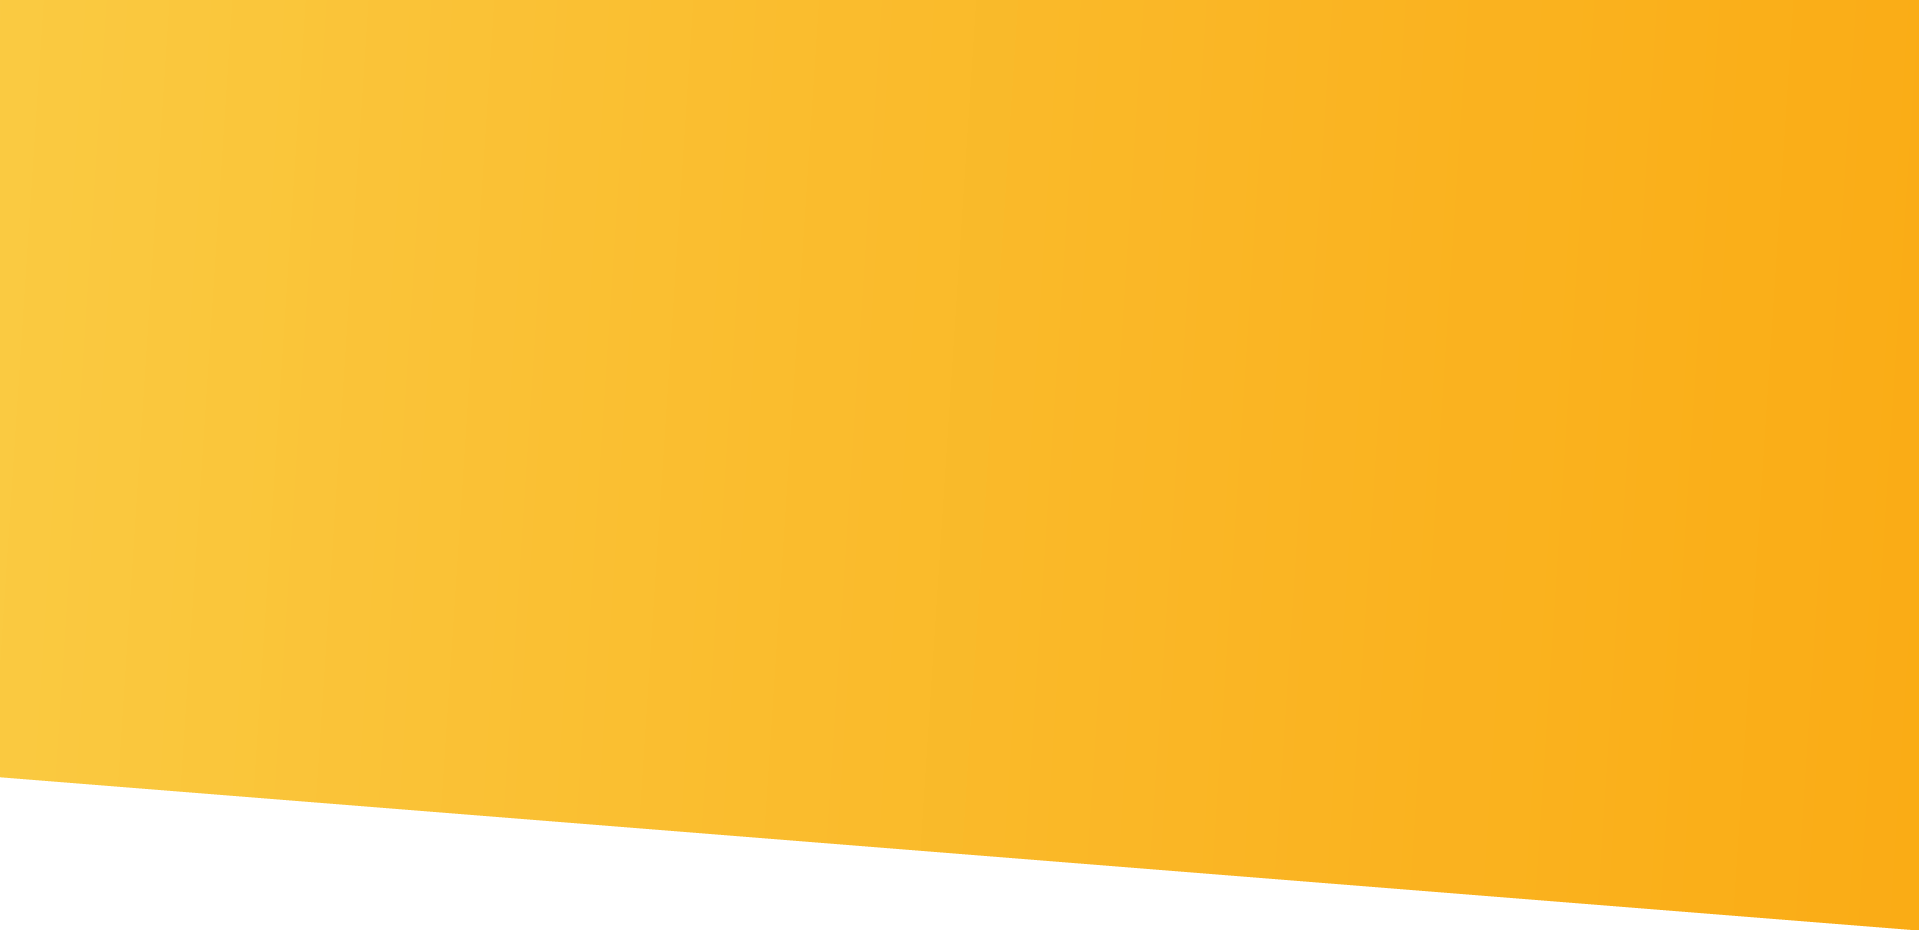
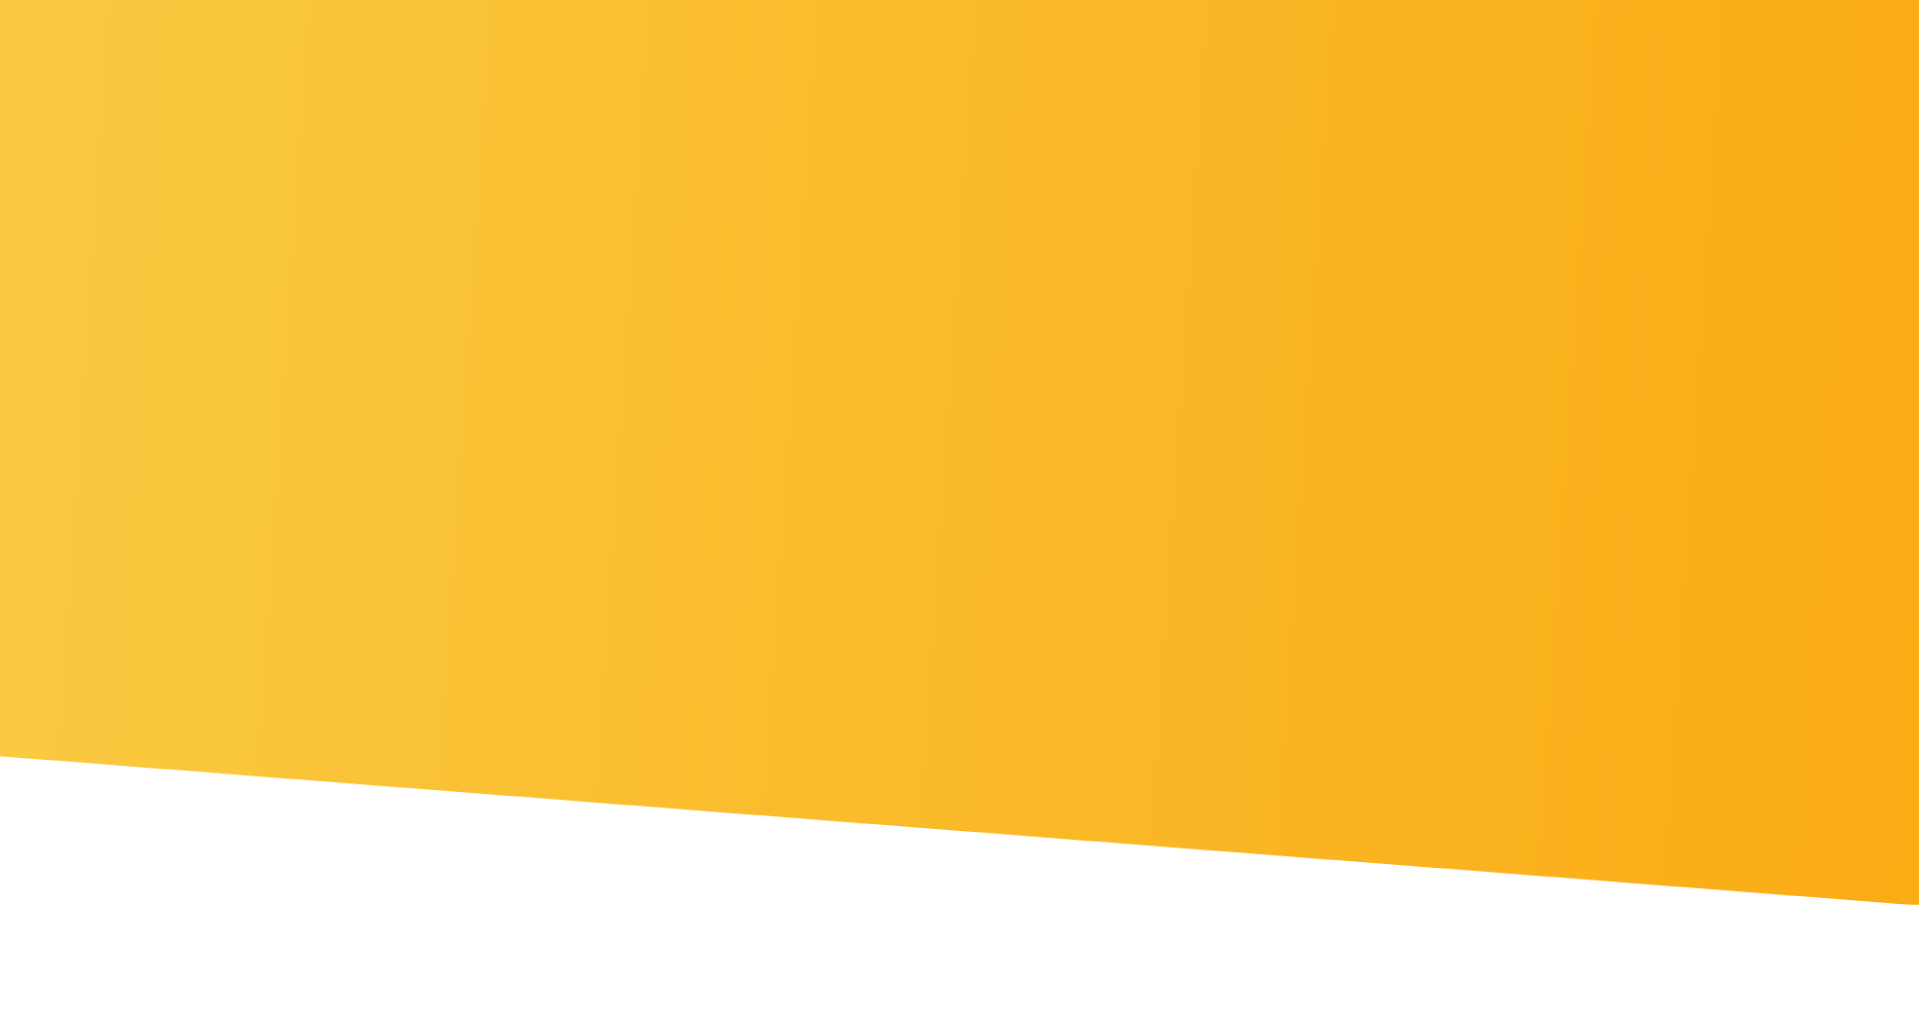
Update 7

Changed region(s): [[0.0, 0.7172, 1.0, 1.0]]

diff --git a/assets/css/style.css b/assets/css/style.css
@@ -325,11 +325,13 @@ header .header-nav .nav-item ul li a:hover
     font-weight: 700;
     border-radius: 50px;
 }
-.btn-style-one:hover {
+.btn-style-one:hover 
+{
     background: none;
     color: #f9b233;
 }
-.logo-sgs {
+.logo-sgs 
+{
     width: 130px;
     display: block;
     margin: 0px auto;
@@ -675,7 +677,6 @@ header .header-nav .nav-item ul li a:hover
 {
     box-shadow: none;
 }
-
 /* =====================================  Contat Us Style  ================================== */
 .contact-us 
 {
@@ -787,7 +788,6 @@ header .header-nav .nav-item ul li a:hover
     padding: 50px 0px 50px 0px;
     background: #ffffff !important;
 }
-
 .contact-us2 .contat-det 
 {
     padding: 20px 0px;
@@ -1127,38 +1127,88 @@ header .header-nav .nav-item ul li a:hover
     }
 }
 
-/*====================================medidas para moviles================================*/
+/*==================================== Fondo Slider ================================*/
 .fondo-slider
 {
     float: left;
     width: 100%;
     height: auto;
     position: relative;
+    border: solid 2px red;
 }
 .fondo-slider .img-fondo
 {
     float: left;
     width: 100%;
-    height: auto;
+    height: 1031px;
     position: relative;
     z-index: 1;
+    border: cyan solid 3px;
 }
 .fondo-slider .img-panel4
 {
-    width: 210px;
+    width: 250px;
     float: right;
-    margin-top: -250px;
+    margin-top: -430px;
     z-index: 3;
     position: relative;
 }
-@media (max-width: 1550px) 
+@media (max-width: 1700px) 
+{    
+    .fondo-slider .img-fondo
+    {
+        float: left;
+        width: 100%;
+        height: 840px;
+        position: relative;
+        z-index: 1;
+        border: cyan solid 3px;
+    }
+}
+@media (max-width: 1200px) 
+{
+    .fondo-slider .img-fondo
+    {
+        float: left;
+        width: 100%;
+        height: 680px;
+        position: relative;
+        z-index: 1;
+        border: cyan solid 3px;
+    }
+}
+@media (max-width: 900px) 
+{
+    .fondo-slider .img-fondo
+    {
+        float: left;
+        width: 100%;
+        height: 580px;
+        position: relative;
+        z-index: 1;
+        border: cyan solid 3px;
+    }
+}
+@media (max-width: 700px) 
+{
+    .fondo-slider .img-fondo
+    {
+        float: left;
+        width: 100%;
+        height: 350px;
+        position: relative;
+        z-index: 1;
+        border: cyan solid 3px;
+    }
+}
+@media (max-width: 1700px) 
 {    
     .fondo-slider .img-panel4
     {
         display: none;
     }
 }
-/* ===================================== Slider Animation CSS ================================== */
+/* =============================== Slider Animation CSS =========================== */
 /*-- /reset code --*/
 .pogoSlider-slide-element 
 {
@@ -1219,12 +1269,12 @@ header .header-nav .nav-item ul li a:hover
     float: left;
     width: 100%;
     color: #f9b233 !important;
-    font-size: 60px;
-    line-height: 57px;
+    font-size: 72px;
+    line-height: 78px;
     text-align: left;    
     letter-spacing: 0px;
     padding: 0px;    
-    padding: 0px 0px 0px 40px;
+    padding: 0px 0px 0px 7%;
     margin: 0px;
     font-weight: bold;
 }
@@ -1243,14 +1293,44 @@ header .header-nav .nav-item ul li a:hover
 }
 /*-- /banner section --*/
 /*====================================medidas para pc medium================================*/
-@media (max-width: 1680px) 
+@media (max-width: 1700px) 
 {    
     .pogoSlider-slide-element h3 
     {
-        font-size: 40px;
+        font-size: 55px;
+        line-height: 60px;
+    }
+}
+@media (max-width: 1350px) 
+{    
+    .pogoSlider-slide-element h3 
+    {
+        font-size: 35px;
         line-height: 40px;
-        padding-bottom: 0;
-        z-index: 6;
+    }
+}
+@media (max-width: 950px) 
+{    
+    .pogoSlider-slide-element h3 
+    {
+        font-size: 22px;
+        line-height: 28px;
+    }
+}
+@media (max-width: 600px) 
+{    
+    .pogoSlider-slide-element h3 
+    {
+        font-size: 20px;
+        line-height: 25px;
+    }
+}
+@media (max-width: 500px) 
+{    
+    .pogoSlider-slide-element h3 
+    {
+        font-size: 16px;
+        line-height: 20px;
     }
 }
 /**********************Que es BeeAgri********************************/

diff --git a/assets/css/pogo-slider.min.css b/assets/css/pogo-slider.min.css
@@ -4,20 +4,53 @@
 }
 .pogoSlider
 {
-	float: left;
-	width:80%;
-	margin:0px 10%;
+	width:1700px;
+	border:solid 6px blue;
+	height: calc(100% - 175px) !important;
+	max-width: 1920px;
+	margin:0px auto;
 	position: absolute;
-    top: calc(0% + 175px) !important;    
+	top: calc(0% + 175px) !important;
+	left:50%;
+    transform: translate(-50%, -0%);
+    -webkit-transform: translate(-50%, -0%);
 	z-index: 2;
 }
-@media (max-width: 768px) 
+@media (max-width: 1700px)
 {
 	.pogoSlider
 	{
-		width:100%;
+		width:1200px;
+		margin:0px;
+		top: calc(0% + 175px) !important;
+	}
+}
+@media (max-width: 1200px)
+{
+	.pogoSlider
+	{
+		width:900px;
+		margin:0px;
+		top: calc(0% + 175px) !important;
+	}
+}
+@media (max-width: 900px)
+{
+	.pogoSlider
+	{
+		width:700px;
+		margin:0px;
+		top: calc(0% + 175px) !important;
+	}
+}
+@media (max-width: 700px) 
+{
+	.pogoSlider
+	{
+		width:550px;
 		margin:0px;
 		top: calc(0% + 70px) !important;
+		height: calc(100% - 70px) !important;
 	}
 }
 .pogoSlider--banner .pogoSlider-slide
@@ -30,7 +63,7 @@
 {
 	float: left;
 	width:94%;
-	margin-left:3%;
+	margin:0px 3%;
 	height:auto;
 	position:absolute;	
 	background-repeat: no-repeat;
@@ -126,13 +159,7 @@ filter: progid:DXImageTransform.Microsoft.gradient( startColorstr='#fcce47', end
 @media (max-width: 823px) {
 	.pogoSlider-nav-btn
 	{
-		background:#ccc;
-		background:rgba(255,255,255,.5);
-		border:none;
-		border-radius:5px;
-		width:10px;
-		height:10px;
-		box-shadow:0 1px 1px rgba(0,0,0,.1);
+		display: none;
 	}
 	.pogoSlider-nav-btn--selected
 	{

diff --git a/index.html b/index.html
@@ -140,10 +140,10 @@
     <section id="quees">
         <div class="container">
             <div class="row">                
-                <div class="col-xs-12 col-sm-5 col-md-5 col-lg-5 col-xl-6 col-xxl-6 izquierda">
+                <div class="col-xs-12 col-sm-12 col-md-12 col-lg-5 col-xl-6 col-xxl-6 izquierda">
                     <img src="assets/images/soluciones/Laptop-RHsys.png" alt="">
                 </div>
-                <div class="col-xs-12 col-sm-7 col-md-7 col-lg-7 col-xl-6 col-xxl-6 derecha">
+                <div class="col-xs-12 col-sm-12 col-md-12 col-lg-7 col-xl-6 col-xxl-6 derecha">
                     <div>
                         <h3>¿Qué es BeeAgri?</h3>
                         <p>Plataforma web y móvil diseñada para la operación de la apicultura. 
